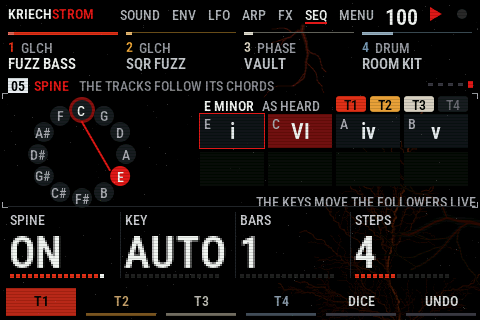
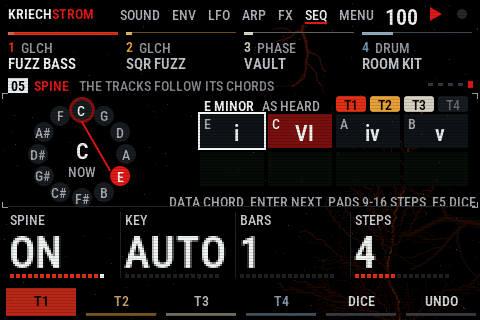
0.5.21: SPINE plainer, the chord now big in the circle, the keys' move in red, the step playing filled and the one to change framed; pads 9-16 choose the steps

diff --git a/site/manual/ru.html b/site/manual/ru.html
@@ -110,10 +110,13 @@
 <p>SEQ &gt; SPINE, последняя страница SEQ. Называет тональность дорожек (AUTO: по их нотам; или задай на ENC 2),
 показывает её на круге квинт и идёт по прогрессии до восьми аккордов, шаг каждые 1, 2 или 4 такта (ENC 3; ENC 4
 сколько шагов). Дорожки, которые за ним следуют (пэды 1-4 на этой странице; барабаны никогда), сдвигаются к корню
-каждого аккорда через их TRN, как если бы ты крутил его сам. Включается ENC 1. DATA меняет аккорд выбранного шага,
-ENTER переходит к следующему, F5 кидает DICE на прогрессию в духе MOOD. На этой странице клавиши двигают дорожки
-вживую: любая клавиша на корне тональности возвращает их. Выключен: TRN дорожек как были. Чтобы ноты оставались в
-тональности, включи дорожкам QNT (ARP &gt; SCL).</p>
+каждого аккорда через их TRN, как если бы ты крутил его сам. Включается ENC 1.</p>
+<p>Шаги: тот, что играет, залит красным, тот, что меняешь, в белой рамке. Выбирай его ENTER (следующий шаг), пэдами
+9-16 (шаги 1-8, как лежат) или кликом; DATA меняет его аккорд: i ii III iv v VI VII (в мажоре I ii iii IV V vi vii).
+F5 кидает DICE на всю прогрессию в духе MOOD. На шаге крупно ступень, мелко нота, которую он играет.</p>
+<p>В середине круга крупно аккорд, который играет сейчас. На этой странице клавиши двигают дорожки вживую: нажми A в
+E minor, и вся прогрессия сдвинется к A; в середине загорится красное <b>+5</b>, на шагах красным их новые ноты, а
+нота самой тональности (здесь E) вернёт всё назад. Выключен: TRN дорожек как были.</p>
 
 <h2 id="pads">Пэды</h2>
 <div class="tw"><table>

diff --git a/site/manual/en.html b/site/manual/en.html
@@ -108,10 +108,14 @@ SEQ steps through the eight moods (MACHINE to HUSH); the name shows at the botto
 <p>SEQ &gt; SPINE, the last page of SEQ. It names the key the tracks are in (AUTO: by their notes; or set it on ENC 2),
 shown on a circle of fifths, and walks a progression of up to eight chords, a step each 1, 2 or 4 bars (ENC 3; ENC 4 how
 many steps). The tracks that follow it (pads 1-4 on this page; the drums never do) are moved to each chord's root by
-their TRN, as you would turn it. Turn it on with ENC 1. DATA changes the chosen step's chord, ENTER goes to the next
-step, F5 DICEs a progression in the MOOD. On this page the keys move the followers live: any key on the key's root
-brings them back. Off, the tracks' TRN are as they were. For the notes to stay in the key, set the tracks' QNT (ARP &gt;
-SCL).</p>
+their TRN, as you would turn it. Turn it on with ENC 1.</p>
+<p>The steps: the one playing is filled red, the one you change is framed white. Choose it with ENTER (the next step),
+with pads 9-16 (steps 1-8, as they lie) or with a click; DATA then changes its chord: i ii III iv v VI VII (in a major
+key I ii iii IV V vi vii). F5 DICEs a whole progression in the MOOD. Each step shows its degree big and the note it
+plays small.</p>
+<p>The middle of the circle shows the chord playing now, big. On this page the keys move the followers live: press A in
+E minor and the whole progression moves up to A; the middle then shows <b>+5</b> in red, the steps their new notes in
+red, and the key's own note (E here) brings it back. Off, the tracks' TRN are as they were.</p>
 
 <h2 id="pads">The pads</h2>
 <div class="tw"><table>

diff --git a/site/index.html b/site/index.html
@@ -152,7 +152,7 @@ mark like this one, a Lichtenberg figure. On the VIBE it grows behind every page
 <tr><td>AUTOMATION</td><td>the locks and events; ENTER the row's action</td></tr>
 <tr><td>SONG</td><td>SECTION TRACK PAT REPS; F5 plays the song</td></tr>
 <tr><td>F5</td><td>DICE, a new part every time (SHIFT: the next MOOD for DICE)</td></tr>
-<tr><td>SPINE</td><td>the song's backbone: it names the key (AUTO, as heard in the notes, or as set on ENC 2), walks up to eight chords (ENC 3 the bars a step, ENC 4 the steps) and moves the tracks that follow it to each chord by their TRN. DATA the chosen step's chord, ENTER the next step, F5 DICE a progression in the MOOD, pads 1-4 who follows, the keys move them live. Drums never follow</td></tr>
+<tr><td>SPINE</td><td>the song's backbone: it names the key (AUTO, as heard in the notes, or as set on ENC 2), walks up to eight chords (ENC 3 the bars a step, ENC 4 the steps) and moves the tracks that follow it to each chord by their TRN. ENTER or pads 9-16 choose a step, DATA its chord, F5 DICE a progression in the MOOD, pads 1-4 who follows, the keys move them live (the middle shows the chord now and the move). Drums never follow</td></tr>
 </table></section>
 
 <section><h3>MENU</h3><table>

diff --git a/kriechstrom/kx_draw.h b/kriechstrom/kx_draw.h
@@ -1282,23 +1282,40 @@ static void kx_draw_spine(int x, int y, int w, int h)
         vg_round(x + w - 4 - (4 - i) * 34, y - 2, 30, 16, 3, on && !dr ? TRK_RGB[i] : 0x1E1E24);
         vg_text(t, x + w - 4 - (4 - i) * 34 + 15, y - 1, VG_SMALL, on && !dr ? C_BG : 0x6A6A72, VG_CENTER);
     }
-    for (i = 0; i < 8; i++) {                     /* the steps */
+    {                                             /* the circle's middle: the chord playing now, big; the keys' move */
+        int on = kx_ic[IC_SP_ON];
+        vg_text(on ? SP_KEYN[chord] : "--", (int)cx, (int)cy - 16, VG_BIG, on ? C_WHITE : 0x6A6A72, VG_CENTER);
+        if (on && kx_sp_live) {
+            char m[12] = "";
+            int n = kx_sp_live, l;
+            if (n > 0)
+                str_cpy(m, "+", sizeof m);
+            l = str_len(m);
+            vg_itoa(n, m + l);
+            vg_text(m, (int)cx, (int)cy + 10, VG_SMALL, C_RED, VG_CENTER);
+        } else
+            vg_text("NOW", (int)cx, (int)cy + 10, VG_SMALL, TE_MID, VG_CENTER);
+    }
+    for (i = 0; i < 8; i++) {                     /* the steps: the one playing filled, the one DATA changes framed */
         int sx = x + 196 + (i % 4) * 68, sy = y + 16 + (i / 4) * 38, used = i < len, pl = kx_ic[IC_SP_ON] && i == step && used;
-        int deg = kx_ic[IC_SP_P0 + i];
-        vg_rect(sx, sy, 64, 34, pl ? vg_mix(C_BG, C_RED, 0.5f) : used ? 0x16161A : 0x0C0C0E);
-        if (used) {
-            vg_text(kx_sp_roman(deg), sx + 32, sy + 4, VG_BIG, pl ? C_WHITE : TE_INK, VG_CENTER);
-            vg_text(SP_KEYN[(root + kx_sp_semis(deg) + 24) % 12], sx + 4, sy + 2, VG_SMALL, TE_MID, VG_LEFT);
+        int deg = kx_ic[IC_SP_P0 + i], at = (root + kx_sp_semis(deg) + (kx_ic[IC_SP_ON] ? kx_sp_live : 0) + 24) % 12;
+        vg_rect(sx, sy, 64, 34, pl ? vg_mix(C_BG, C_RED, 0.55f) : used ? 0x16161A : 0x0C0C0E);
+        if (used) {                               /* (the roman degree; the note it plays, red when the keys moved it) */
+            vg_text(kx_sp_roman(deg), sx + 36, sy + 6, VG_BIG, pl ? C_WHITE : TE_INK, VG_CENTER);
+            vg_text(SP_KEYN[at], sx + 4, sy + 2, VG_SMALL, pl ? C_WHITE : kx_sp_live && kx_ic[IC_SP_ON] ? C_RED : TE_MID, VG_LEFT);
         }
-        if (i == kx_sp_sel)
-            vg_frame(sx - 1, sy - 1, 66, 36, 1, C_RED);
+        if (i == kx_sp_sel && used)
+            vg_frame(sx - 2, sy - 2, 68, 38, 2, C_WHITE);
     }
     if (!kx_ic[IC_SP_ON])
         vg_text("OFF: ENC 1 TURNS IT ON", x + w, y + h - 12, VG_SMALL, C_RED, VG_RIGHT);
-    else if (kx_sp_live)
-        vg_text("THE KEYS MOVED IT: ANY KEY ON THE ROOT BRINGS IT BACK", x + w, y + h - 12, VG_SMALL, TE_MID, VG_RIGHT);
-    else
-        vg_text("THE KEYS MOVE THE FOLLOWERS LIVE", x + w, y + h - 12, VG_SMALL, TE_MID, VG_RIGHT);
+    else if (kx_sp_live) {
+        char m[48] = "THE KEYS MOVED IT: ";
+        str_cpy(m + str_len(m), SP_KEYN[root], sizeof m - str_len(m));
+        str_cpy(m + str_len(m), " BRINGS IT BACK", sizeof m - str_len(m));
+        vg_text(m, x + w, y + h - 12, VG_SMALL, C_RED, VG_RIGHT);
+    } else
+        vg_text("DATA CHORD  ENTER NEXT  PADS 9-16 STEPS  F5 DICE", x + w, y + h - 12, VG_SMALL, TE_MID, VG_RIGHT);
 }
 
 /* PAD FX: pads 9-16 as they lie, and the same with SHIFT; each with the effect it holds, the chosen one red */

diff --git a/kriechstrom/kx_ui.h b/kriechstrom/kx_ui.h
@@ -724,6 +724,17 @@ static void kx_pad(uint32_t id, int down, float vel)
         break;
     default: {                                    /* pads 9-16: the effects MENU > PAD FX gives them, while held (SHIFT: eight more) */
         uint32_t slot = (row - 2u) * 4u + col + (kx_shift ? 8u : 0u), k = id - 8u;
+        static uint8_t sp_held[8];                /* (SPINE: pads 9-16 choose its steps 1-8, as they lie) */
+        if (down && kx_page == PG_SPINE) {
+            sp_held[k] = 1;
+            if ((int)k < clamp(kx_ic[IC_SP_LEN], 1, 8))
+                kx_sp_sel = (int)k;
+            break;
+        }
+        if (!down && sp_held[k]) {
+            sp_held[k] = 0;
+            break;
+        }
         if (down) {
             kx_pad_fx[k] = (uint8_t)clamp(kx_ic[IC_PF0 + slot], 0, KX_NFX - 1);
             kx_pfx_hit[slot] = vibe_frames() ? vibe_frames() : 1;

diff --git a/kriechstrom/kx_hal.h b/kriechstrom/kx_hal.h
@@ -17,7 +17,7 @@ char *strchr(const char *s, int c);
 #endif
 #define FELUCCA_CDC 0
 #define FELUCCA_FLASH 0
-#define FELUCCA_VERSION "0.5.20"
+#define FELUCCA_VERSION "0.5.21"
 #define FM1_TICKS_PER_US 1u
 #define FM1_NCOL 11u
 #define __attribute__(x)

diff --git a/README.md b/README.md
@@ -47,7 +47,7 @@ mark grows behind every page as the master wears the mix out.
   LFO where they are, the playhead's trail.
 - **SPINE (SEQ > SPINE):** names the key (by the notes, or as set) and walks a progression of up to eight chords; the
   tracks that follow it move to each chord by their TRN, a step each 1, 2 or 4 bars; DICE writes a progression in the
-  MOOD, the keys move the followers live.
+  MOOD, ENTER or pads 9-16 choose a step and DATA its chord, the keys move the followers live.
 - **The pads:** mute and DICE per track; pads 9-16 hold effects, at first eight of this firmware's own (PRESS, PISTON,
   BUILD, TUNNEL, SHREDDER, BLACKOUT, SHORTWAVE, CORRODE, each at its own pace and with its picture on the display and
   the stage), with SHIFT

diff --git a/docs/release-0.5.21.md b/docs/release-0.5.21.md
@@ -1,0 +1,7 @@
+KRIECHSTROM for VIBE FM 0.5.21, on KRIECHSTROM 0.5.2 for the FM-1.
+
+- SPINE plainer: the chord playing now big in the circle's middle, the keys' move in red, the steps' notes as they play
+- SPINE: the step playing filled, the one DATA changes framed white; pads 9-16 choose the steps 1-8
+
+Files: `kriechstrom.wasm` (the Playground: Load your own .wasm, or drop it onto the device), `kriechstrom.zip`
+(the VIBE FM plugin: drop it onto its window). The source is this tag; `git clone --recursive` brings KRIECHSTROM's core with it.

diff --git a/CHANGELOG.md b/CHANGELOG.md
@@ -5,6 +5,15 @@ All notable changes to KRIECHSTROM for VIBE FM. The format follows
 
 ## [Unreleased]
 
+## [0.5.21] - 2026-11-24
+
+On KRIECHSTROM 0.5.2 for the FM-1.
+
+### Changed
+- SPINE's page plainer: the chord playing now big in the circle's middle, the keys' move shown there in red (+5),
+  the steps' notes as they play, the step playing filled and the one DATA changes framed white, a line of what does what
+- SPINE: pads 9-16 choose its steps 1-8 on its page
+
 ## [0.5.20] - 2026-11-24
 
 On KRIECHSTROM 0.5.2 for the FM-1.
